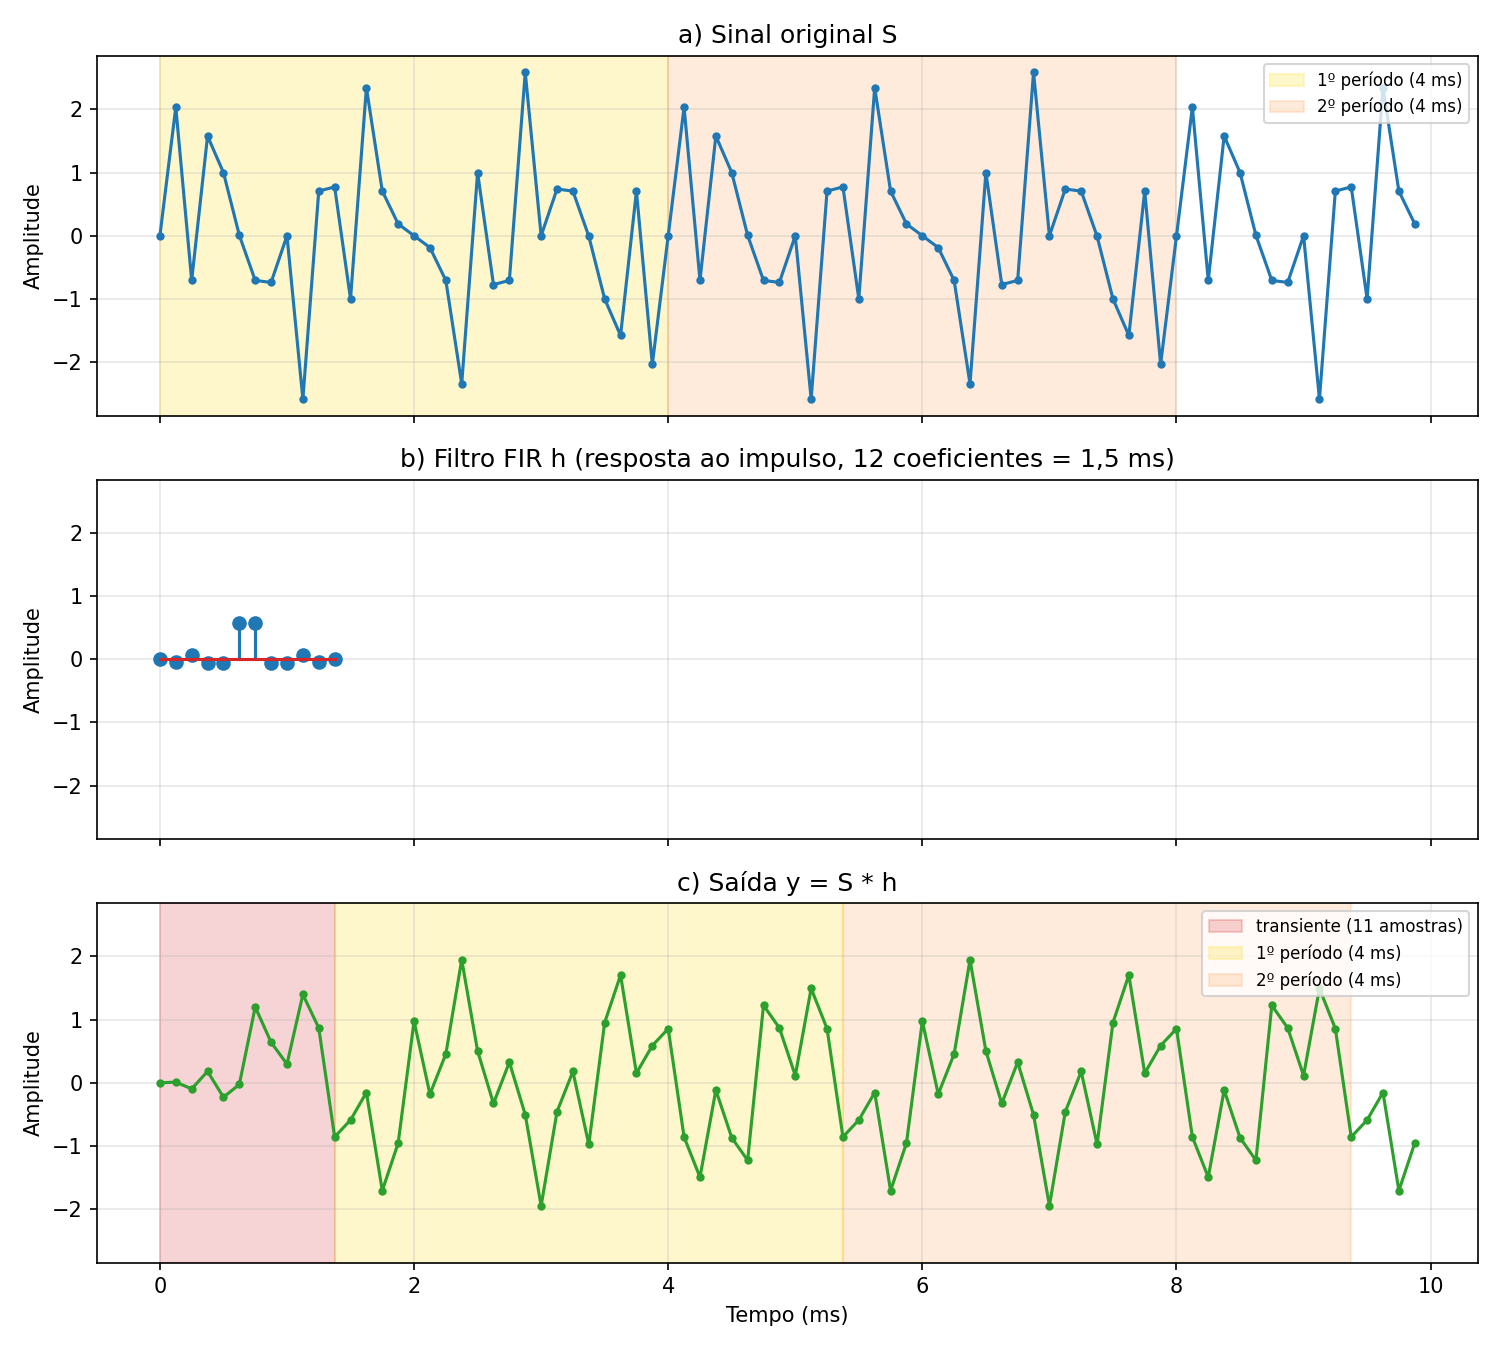
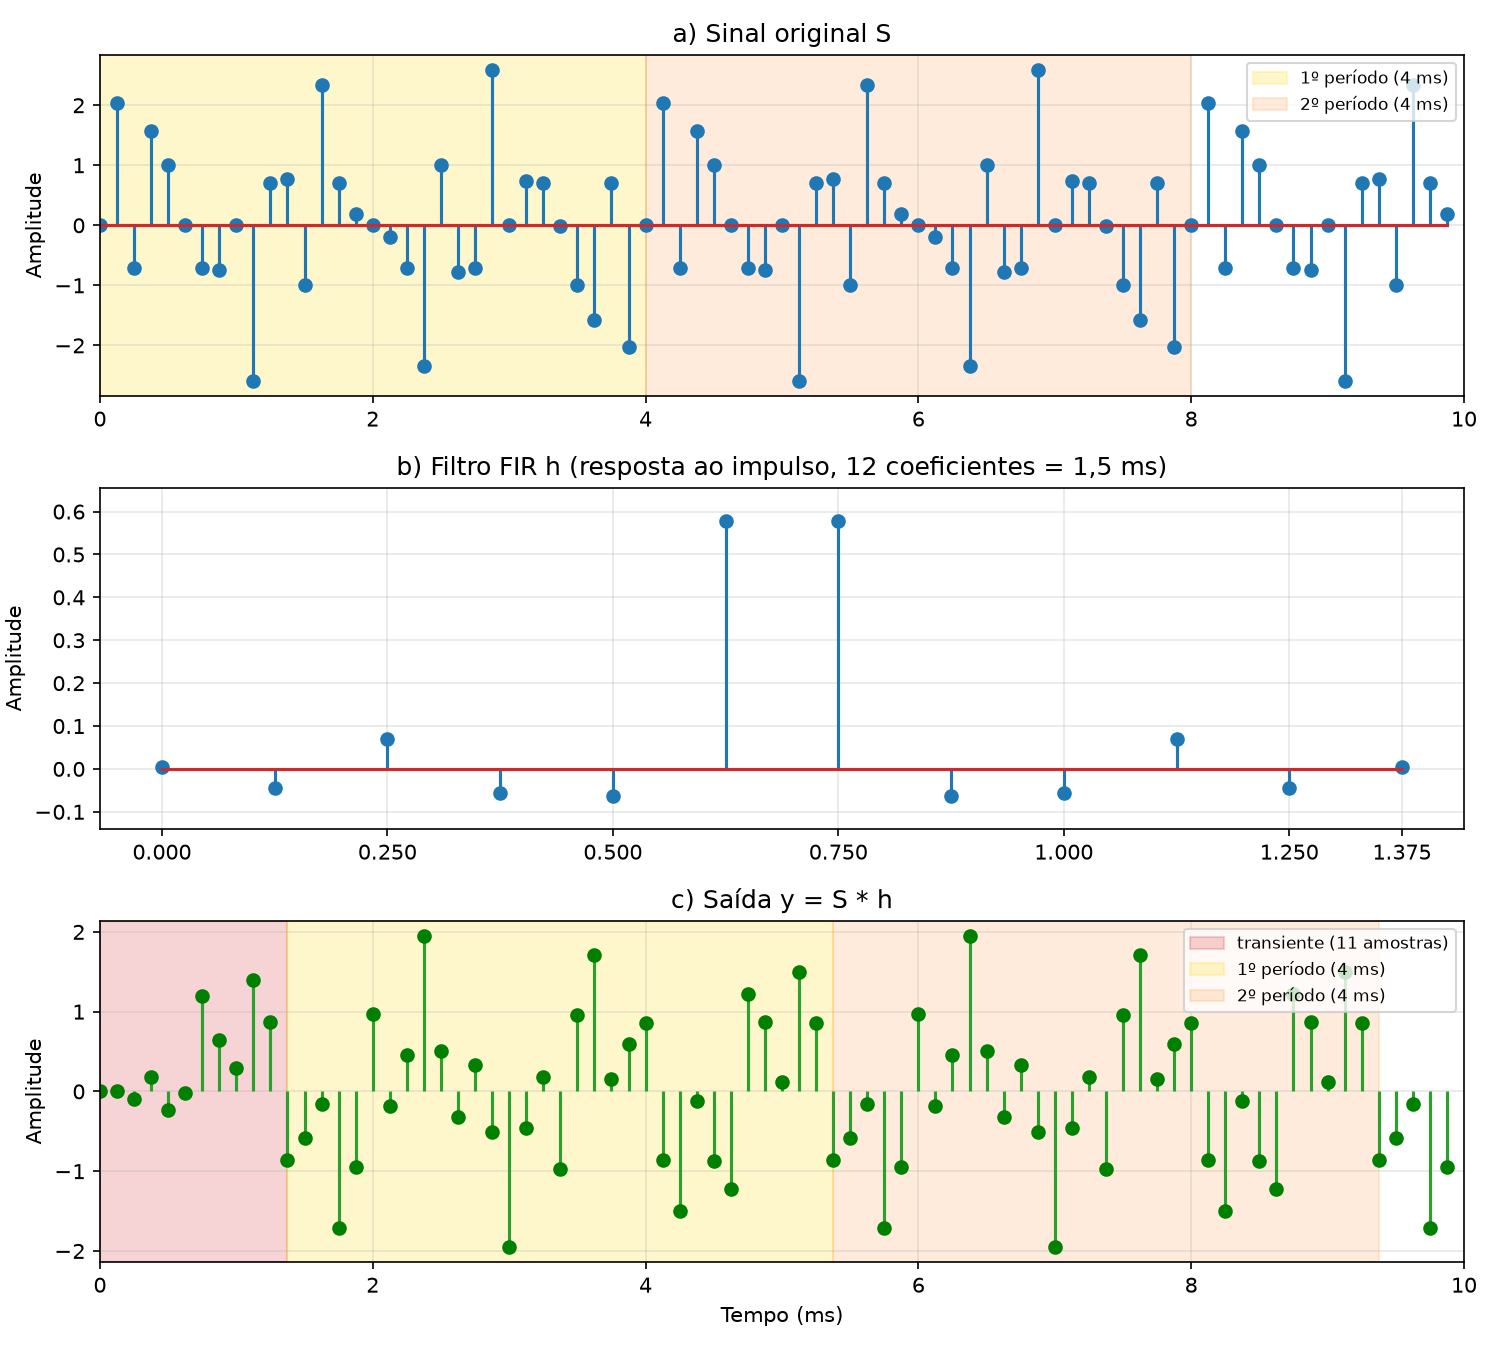
Minor improvements

diff --git a/dsp3.py b/dsp3.py
@@ -117,7 +117,7 @@ S_cont10 = (np.sin(2 * np.pi * f1 * t_cont10) + np.sin(2 * np.pi * f2 * t_cont10
 freqs_fft = np.fft.rfftfreq(len(S), 1 / fs)
 
 
-# utiliza apenasos valores da serie, porem sem informação da frequência, por isso é necessário criar o vetor de frequências
+# utiliza apenas os valores da serie, porem sem informação da frequência, por isso é necessário criar o vetor de frequências
 # passo 
 amp_fft = np.abs(np.fft.rfft(S)) / (len(S) / 2)
 print(f"\n tamanho FFT:     {len(amp_fft)} amostras | resolução: {fs / len(S):.3f} Hz")
@@ -192,21 +192,27 @@ print(f"\nS: {len(S)} amostras | h: {len(h)} | y: {len(y)} amostras")
 n_ms = 10                                # mostra os primeiros 10 ms
 nS = int(n_ms / 1000 * fs)               # 80 amostras
 
-fig, axs = plt.subplots(3, 1, figsize=(10, 9), sharex=True, sharey=True)
+fig, axs = plt.subplots(3, 1, figsize=(10, 9))
 
-axs[0].plot(t[:nS] * 1000, S[:nS], "o-", markersize=3)
+axs[0].stem(t[:nS] * 1000, S[:nS])
 axs[0].set_title("a) Sinal original S")
 
 axs[1].stem(th * 1000, h)
 axs[1].set_title("b) Filtro FIR h (resposta ao impulso, 12 coeficientes = 1,5 ms)")
 
-axs[2].plot(ty[:nS] * 1000, y[:nS], "o-", markersize=3, color="tab:green")
+axs[2].stem(ty[:nS] * 1000, y[:nS], linefmt="tab:green", markerfmt="go", basefmt=" ")
 axs[2].set_title("c) Saída y = S * h")
 axs[2].set_xlabel("Tempo (ms)")
 
 for ax in axs:
     ax.set_ylabel("Amplitude")
     ax.grid(True, alpha=0.3)
+
+# O filtro ocupa apenas 1,375 ms entre a primeira e a última amostra.
+# Deixa cada painel com escala própria para aproveitar essa faixa e a amplitude de h.
+axs[0].set_xlim(0, n_ms)
+axs[1].set_xticks(np.append(th[::2] * 1000, th[-1] * 1000))
+axs[2].set_xlim(0, n_ms)
 
 # Marcações: períodos de 4 ms em S; transiente + períodos de 4 ms em y
 T_S = 4                                   # período de S (ms)

diff --git a/dsp1.py b/dsp1.py
@@ -86,6 +86,7 @@ def quantizar(x, n_bits, v_min, v_max):
     return xq, delta
 
 # ---------------- Extração de frequência, amplitude e potência ----------------
+# Obs: Filtro de média móvel não causal (utiliza amostras futuras)
 def media_movel(R, w):
     # Cada ponto vira a média dele com os vizinhos (janela de w pontos).
     # Atenua o "serrilhado" do ruído sem deformar a cossenoide lenta.
@@ -110,10 +111,8 @@ def primeiro_lobulo(S):
     k_fim = k
     return k_ini, k_fim
 
-def analisar(R):
-    # tamanho da janela da media movel tambem deve ser atualizado ao plotar grafico lah embaixo.
-    # tamanho da janel = 5
-    S = media_movel(R, 5)
+def analisar(R, fs, janela = 5):
+    S = media_movel(R, janela)
     k_ini, k_fim = primeiro_lobulo(S)
     k_pico = (k_ini + k_fim) / 2           # centro do lóbulo = 1 período (amostras)
     periodo = k_pico / fs                  # s
@@ -239,7 +238,7 @@ R_teorico = (A1 ** 2 / 2) * np.cos(2 * np.pi * f1 * lags_comp / 1000)   # gabari
 
 for n_per in [4, 40, 400]:
     R_ = autocorrelacao(gerar_x(n_per), K_comp)
-    k_pico, freq, amp, Ps, Pn, snr = analisar(R_)
+    k_pico, freq, amp, Ps, Pn, snr = analisar(R_, fs)
     print(f"{n_per:4d} períodos -> pico em {k_pico:.1f} ms | f = {freq:.2f} Hz | "
           f"A = {amp:.3f} V ({2*amp:.2f} Vpp) | P_sinal = {Ps:.3f} V² | "
           f"P_ruido = {Pn:.3f} V² | SNR = {snr:.1f} dB")
@@ -347,7 +346,7 @@ R_400 = autocorrelacao(gerar_x(400), K_comp)
 # tamanho da janel = 5
 S_400 = media_movel(R_400, 5)
 k_ini, k_fim = primeiro_lobulo(S_400)
-k_pico, freq, amp, Ps, Pn, snr = analisar(R_400)
+k_pico, freq, amp, Ps, Pn, snr = analisar(R_400, fs)
  
 plt.figure(figsize=(10, 4))
 plt.plot(lags_comp, R_400, color="tab:green", alpha=0.4, label="R(k) de x")

diff --git a/dsp2.py b/dsp2.py
@@ -22,7 +22,7 @@ def convolucao(x, h):
 
 # ---------------- Sinal de entrada x(t) ----------------
 T = 1                          # período de amostragem
-t = np.arange(0, 32 + T, T)    # 0, 1, 2, ..., 32  (33 amostras)
+t = np.arange(0, (32 + 1) * T, T)    # 0, 1, 2, ..., 32  (33 amostras)
 x = np.exp(-0.5 * t)
 
 # ---------------- Resposta ao impulso h(t) ----------------
@@ -56,7 +56,7 @@ ax2.set_ylabel("h(t)")
 ax2.grid(True, alpha=0.3)
 
 ax3.stem(ty, y)
-ax3.set_title("Saída y(t) = x(t) * h(t)")
+ax3.set_title("Saída y(t) = x(t) ∗ h(t)")
 ax3.set_xlabel("t (amostras)")
 ax3.set_ylabel("y(t)")
 ax3.grid(True, alpha=0.3)
